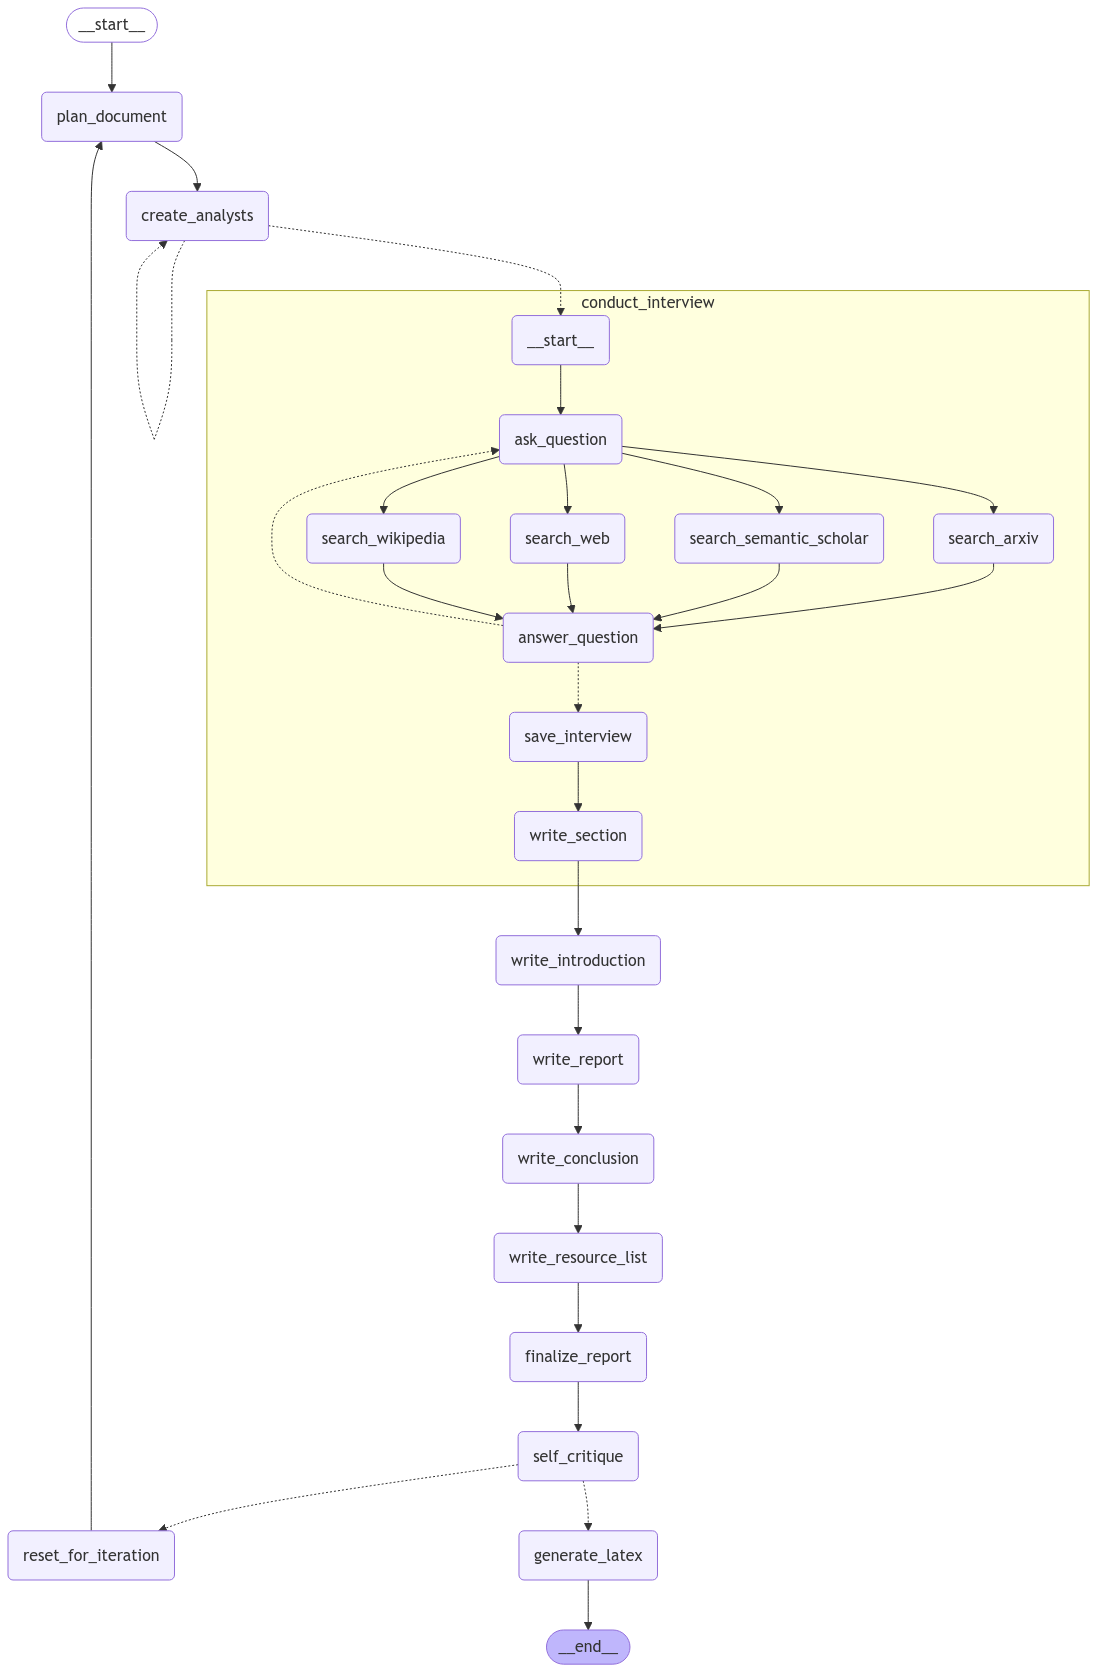
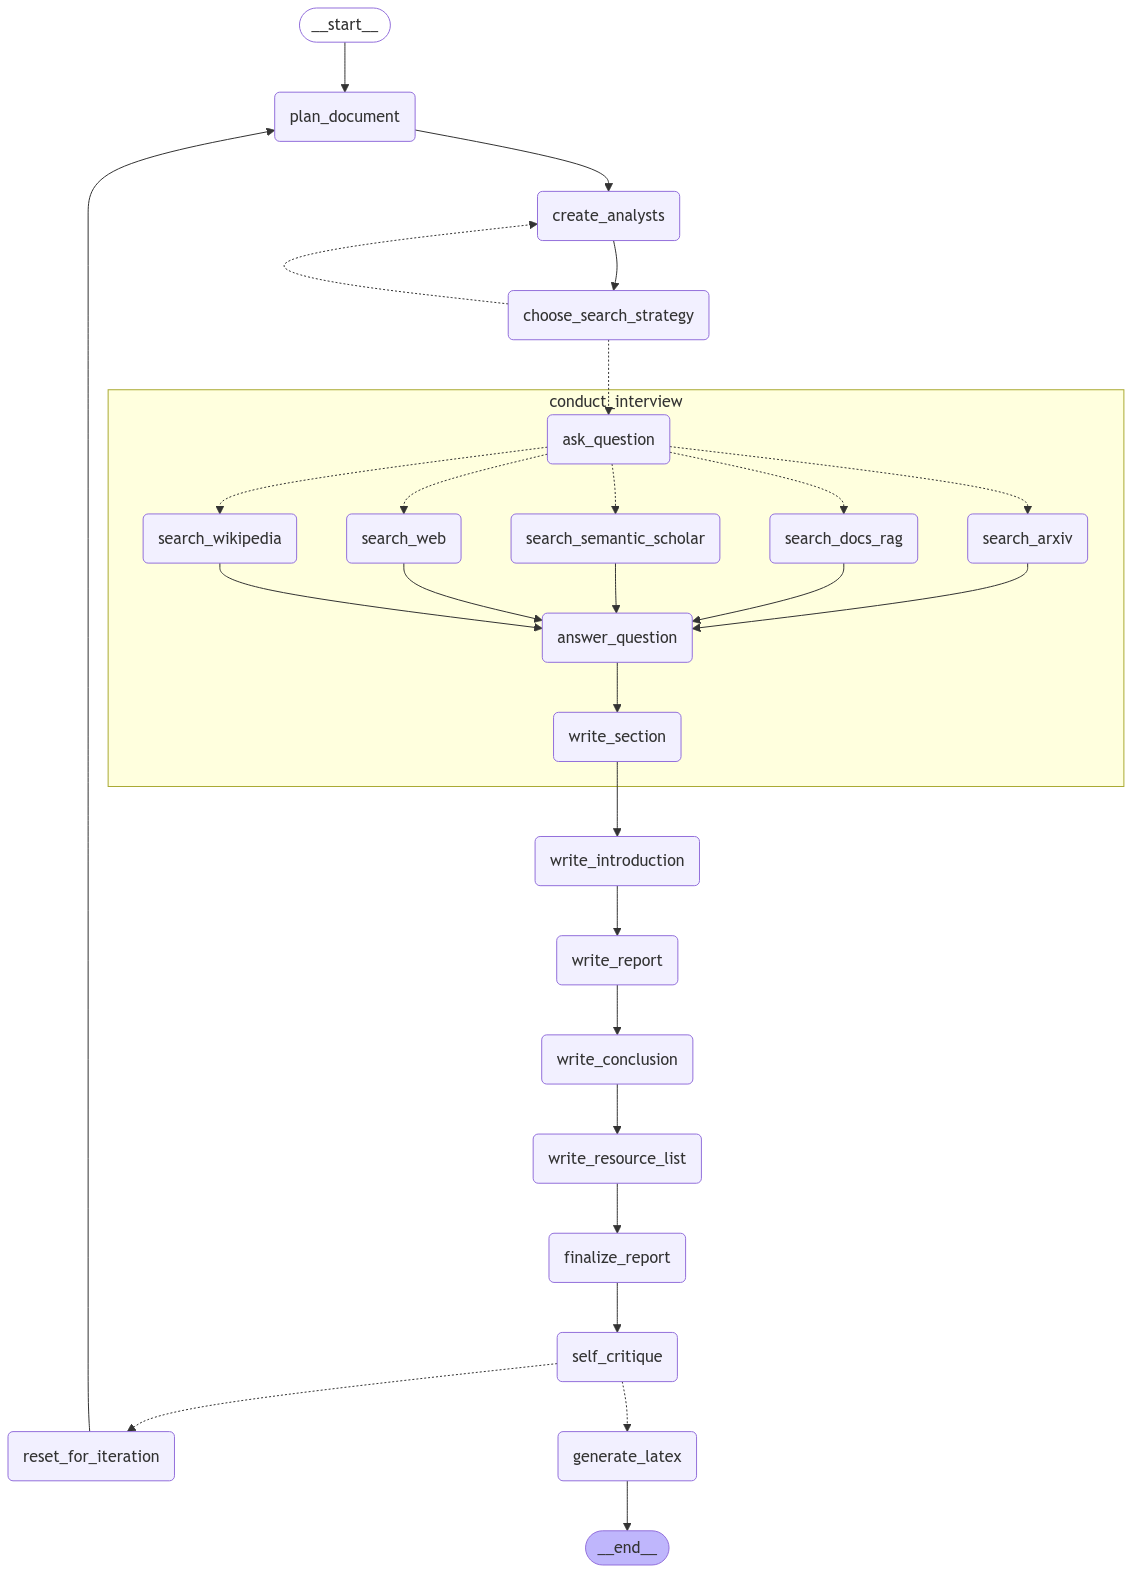
Fix RAG integration. Reorganize the graph to be more dynamic from searching strategy methodology (offline, online, both)

Changed region(s): [[0.0, 0.0935, 1.0, 0.9968], [0.217, 0.0, 0.3719, 0.0935], [0.031, 0.0, 0.155, 0.0935]]

diff --git a/demo.py b/demo.py
@@ -33,7 +33,7 @@ import json
 import re
 from json import JSONDecoder
 
-from utils.llm_utils import HumanLLMMonitor, smart_print
+from utils.llm_utils import HumanLLMMonitor, smart_print, smart_input
 from utils.file_utils import save_to_pickle, load_from_pickle
 from config import embedding_function, reset_db_indices, MODELS_CONFIG_LIST
 
@@ -309,11 +309,11 @@ def should_continue(state: GenerateAnalystsState):
 ### -------------------------------
 
 class InterviewState(MessagesState):
-    max_num_turns: int  # Number of conversation turns
-    context: Annotated[list, operator.add]  # Source docs
-    analyst: Analyst  # Analyst persona
-    interview: str  # Interview transcript
-    sections: list  # Collected sections for the report
+    max_num_turns: int                              # Number of conversation turns
+    context: Annotated[list, operator.add]          # Source docs
+    analyst: Analyst                                # Analyst persona
+    interview: str                                  # Interview transcript
+    sections: list                                  # Collected sections for the report
 
 class SearchQuery(BaseModel):
     search_query: str = Field(None, description="Search query for retrieval.")
@@ -531,6 +531,28 @@ def search_wikipedia(state: InterviewState):
     smart_print(message=formatted_search_docs, agent_name="Search Wikipedia", message_type="NEW inference result recieved", column_id=0, column_max=1)
     return {"context": [formatted_search_docs]}
 
+@load_from_pickle
+@save_to_pickle
+def search_docs_rag_get(search_query):
+    search_docs = HumanLLMMonitor.get_rag_documents("type", query=search_query.search_query)
+    formatted_search_docs = "\n\n---\n\n".join([
+        '<Document "' + doc["rag_knowledge"] + '"'
+        for doc in search_docs[0]
+    ])
+    return formatted_search_docs
+
+def search_docs_rag(state: InterviewState):
+    print("Search_docs_rag")
+    if "search_instructions" not in state:
+        state["search_instructions"] = SystemMessage(content=(
+            "You are an analyst tasked with generating a search query for the RAG retrieval model. "
+            "Analyze the conversation between the analyst and the expert and convert the final question into a search query."
+        ))
+    search_query = search_llm_query(state["search_instructions"], state["messages"])
+    formatted_search_docs = search_docs_rag_get(search_query)
+    smart_print(message=formatted_search_docs, agent_name="Search Docs RAG", message_type="NEW inference result recieved", column_id=0, column_max=1)
+    return {"context": [formatted_search_docs]}
+
 def generate_answer(state: InterviewState):
     print("Generate_answer")
     if "answer_instructions" not in state:
@@ -608,22 +630,26 @@ def write_section(state: InterviewState):
 # RESEARCH REPORT NODES (INCLUDING PLAN, RESOURCE LIST, AND SELF-CRITIQUE)
 ### -------------------------------
 
+class SearchStrategy:
+    def register_nodes(self, graph_builder: StateGraph):
+        raise NotImplementedError("Subclasses must implement register_nodes")
+
 # Extend state to include new keys for iterative improvement.
 class ResearchGraphState(TypedDict):
-    topic: str                      # Research topic
-    max_analysts: int               # Number of analysts
-    human_analyst_feedback: str     # Human feedback
-    analysts: List[Analyst]         # List of analysts
-    sections: Annotated[list, operator.add]  # Collected sections from interviews
-    plan: str                       # Overall plan for the document
-    introduction: str               # Introduction text
-    content: str                    # Main report content (without a conclusion)
-    conclusion: str                 # Conclusion text
-    resource_list: str              # Consolidated resource list (citations)
-    final_report: str               # The final combined report
-    iteration: int                  # Current iteration count
-    max_iterations: int             # Maximum allowed iterations
-    latex_report: str               # The final report in latex
+    topic: str                                          # Research topic
+    max_analysts: int                                   # Number of analysts
+    human_analyst_feedback: str                         # Human feedback
+    analysts: List[Analyst]                             # List of analysts
+    sections: Annotated[list, operator.add]             # Collected sections from interviews
+    plan: str                                           # Overall plan for the document
+    introduction: str                                   # Introduction text
+    content: str                                        # Main report content (without a conclusion)
+    conclusion: str                                     # Conclusion text
+    resource_list: str                                  # Consolidated resource list (citations)
+    final_report: str                                   # The final combined report
+    iteration: int                                      # Current iteration count
+    max_iterations: int                                 # Maximum allowed iterations
+    latex_report: str                                   # The final report in latex
 
 def plan_document(state: ResearchGraphState):
     """Plan Agent: Create a detailed plan for the research document."""
@@ -974,20 +1000,106 @@ def generate_latex(state : ResearchGraphState):
     print(f"latex generated : {latex_report_text}")
     return {'latex_report': latex_report_text}
 
+SEARCH_STRATEGY = None
+
+def choose_search_strategy(state: ResearchGraphState):
+    """
+    A runtime decision node that selects the search strategy.
+    In a real interactive environment, this could prompt the user.
+    For this example, we simulate the choice.
+    """
+    global SEARCH_STRATEGY
+    SEARCH_STRATEGY = smart_input("What searching strategy do you want to use? (Online, Offline, Both): ", column_id=0, column_max=1, optional=False).lower()
+    
+    # Validate the choice and default to "both" if unrecognized.
+    SEARCH_STRATEGY = "both" if SEARCH_STRATEGY not in ["online", "offline", "both"] else SEARCH_STRATEGY
+    
+    # Store the choice as a string to ensure serializability.
+    print(f"Search strategy chosen: {SEARCH_STRATEGY}")
+    return state
+
+def route_to_search_nodes(state: InterviewState):
+    """
+    Based on state['search_strategy'], decide which search nodes to enable.
+    Return a list of node names to which 'ask_question' should connect.
+    """
+    global SEARCH_STRATEGY
+    targets = []
+    
+    if SEARCH_STRATEGY == "offline":
+        # Only offline search
+        targets = ["search_docs_rag"]
+    elif SEARCH_STRATEGY == "online":
+        # Only online
+        targets = ["search_web", "search_wikipedia", "search_arxiv", "search_semantic_scholar"]
+    else:
+        # "both" or unknown => all nodes
+        targets = ["search_docs_rag", "search_web", "search_wikipedia", "search_arxiv", "search_semantic_scholar"]
+    
+    return targets
+
+
+def build_full_subgraph() -> StateGraph:
+    """
+    Build the subgraph with all potential search nodes.
+    We'll disable or skip them at runtime based on search_strategy.
+    """
+    sg = StateGraph(InterviewState)
+    
+    # 1) Common nodes
+    sg.add_node("ask_question", generate_question)
+    sg.add_node("answer_question", generate_answer)
+    sg.add_node("write_section", write_section)
+    
+    # 2) All possible search nodes
+    sg.add_node("search_docs_rag", search_docs_rag)
+    sg.add_node("search_web", search_web)
+    sg.add_node("search_wikipedia", search_wikipedia)
+    sg.add_node("search_arxiv", search_arxiv)
+    sg.add_node("search_semantic_scholar", search_semantic_scholar)
+    
+    # 3) Connect edges via a small router function
+    sg.add_conditional_edges("ask_question", route_to_search_nodes, 
+        [
+          "search_docs_rag",
+          "search_web",
+          "search_wikipedia",
+          "search_arxiv",
+          "search_semantic_scholar",
+        ]
+    )
+    
+    # Next, from each search node to answer_question (some libraries require separate edges).
+    sg.add_edge("search_docs_rag", "answer_question")
+    sg.add_edge("search_web", "answer_question")
+    sg.add_edge("search_wikipedia", "answer_question")
+    sg.add_edge("search_arxiv", "answer_question")
+    sg.add_edge("search_semantic_scholar", "answer_question")
+    
+    # Then from answer_question -> write_section -> END
+    sg.add_edge("answer_question", "write_section")
+    sg.add_edge("write_section", END)
+    sg.add_edge(START, "ask_question")
+    
+    return sg
+
+def initiate_all_interviews(state: ResearchGraphState):
+    print("Initiate_all_interviews")
+    human_analyst_feedback = state.get('human_analyst_feedback')
+    if human_analyst_feedback:
+        return "create_analysts"
+    else:
+        topic = state["topic"]
+        return [
+            Send("conduct_interview", {
+                "analyst": analyst,
+                "messages": [HumanMessage(content=f"So you said you were writing an article on {topic}?")]
+            })
+            for analyst in state["analysts"]
+        ]
+
 def multi_agent_research_generation_persist_at_the_end(title, topic, max_analysts: int = 3, max_iterations: int = 2):
-    """
-    Generate a full research report using a multi-agent LangGraph workflow.
-    The workflow:
-      1. Begins with a plan agent, creates analysts, conducts interviews,
-         writes each section (introduction, main content, conclusion),
-         and generates a consolidated resource list.
-      2. Finalizes the report.
-      3. Then, critiques the current report and updates the plan.
-      4. If the number of iterations is less than max_iterations, it resets key state fields and loops back to re-run the process.
-      5. When max_iterations is reached, the final improved report is output.
-    """
     print("Multi_agent_research_generation_persist_at_the_end")
-    # Initialize state with new iterative fields.
     initial_state: ResearchGraphState = {
         "topic": topic,
         "max_analysts": max_analysts,
@@ -1001,103 +1113,49 @@ def multi_agent_research_generation_persist_at_the_end(title, topic, max_analyst
         "resource_list": "",
         "final_report": "",
         "iteration": 0,
-        "max_iterations": max_iterations
+        "max_iterations": max_iterations,
+        "search_strategy": None,
+        "latex_report": "",
+        "compiled_interview_graph": None  # New field initialized.
     }
-
-    # Build the interview sub-graph (unchanged)
-    interview_builder = StateGraph(InterviewState)
-    # TODO: Move out the Ask Question (make it generate 10 questions for each analysts before going in interview) and Write Section nodes to main graph so we can still parallelize the interviews and also use HumanLLMMonitor for
-    # these 2 nodes. 
-    interview_builder.add_node("ask_question", generate_question)
-    interview_builder.add_node("search_web", search_web)
-    interview_builder.add_node("search_wikipedia", search_wikipedia)
-    interview_builder.add_node("search_arxiv", search_arxiv)
-    interview_builder.add_node("search_semantic_scholar", search_semantic_scholar)
-    interview_builder.add_node("answer_question", generate_answer)
-    interview_builder.add_node("save_interview", save_interview)
-    interview_builder.add_node("write_section", write_section)
-    interview_builder.add_edge(START, "ask_question")
-    interview_builder.add_edge("ask_question", "search_web")
-    interview_builder.add_edge("ask_question", "search_wikipedia")
-    interview_builder.add_edge("ask_question", "search_arxiv")
-    interview_builder.add_edge("ask_question", "search_semantic_scholar")
-    interview_builder.add_edge("search_web", "answer_question")
-    interview_builder.add_edge("search_wikipedia", "answer_question")
-    interview_builder.add_edge("search_arxiv", "answer_question")
-    interview_builder.add_edge("search_semantic_scholar", "answer_question")
-    interview_builder.add_conditional_edges("answer_question", route_messages, ['ask_question', 'save_interview'])
-    interview_builder.add_edge("save_interview", "write_section")
-    interview_builder.add_edge("write_section", END)
-    memory = MemorySaver()
-    interview_graph = interview_builder.compile(checkpointer=memory).with_config(run_name="Conduct Interviews")
     params = {"configurable": {"thread_id": "1"}, "recursion_limit": 100}
 
-    # Build the main research graph with iterative self-critique.
     builder = StateGraph(ResearchGraphState)
     builder.add_node("plan_document", plan_document)
     builder.add_node("create_analysts", create_analysts)
-    # builder.add_node("human_feedback", human_feedback)
-    builder.add_node("conduct_interview", interview_graph)
-    builder.add_node("write_report", write_report)
+    builder.add_node("choose_search_strategy", choose_search_strategy)    
+    
+    # Continue with the rest of the main graph nodes.
     builder.add_node("write_introduction", write_introduction)
+    builder.add_node("write_report", write_report)
     builder.add_node("write_conclusion", write_conclusion)
     builder.add_node("write_resource_list", write_resource_list)
     builder.add_node("finalize_report", finalize_report)
     builder.add_node("self_critique", self_critique)
     builder.add_node("reset_for_iteration", reset_for_iteration)
     builder.add_node("generate_latex", generate_latex)
-    # Define conditional edge based on iteration count.
-    builder.add_conditional_edges("self_critique", should_iterate, ["reset_for_iteration", "generate_latex"])
-    # Add the final latex generation node.
-    builder.add_edge("generate_latex", END)
-    builder.add_edge("reset_for_iteration", "plan_document")
 
-    # Graph flow:
-    # START -> plan_document -> create_analysts -> human_feedback -> (initiate interviews) ->
-    # write_introduction, write_report, write_conclusion -> write_resource_list -> finalize_report -> self_critique ->
-    # [if iteration < max_iterations -> reset_for_iteration -> plan_document] else END.
-    builder.add_edge(START, "plan_document")
+    interview_graph = build_full_subgraph().compile()
+    builder.add_node("conduct_interview", interview_graph)
+    
     builder.add_edge("plan_document", "create_analysts")
-    # builder.add_edge("create_analysts", "human_feedback")
-    # Use a conditional edge from human_feedback to either re-run analyst creation or start interviews.
-    def initiate_all_interviews(state: ResearchGraphState):
-      print("Initiate_all_interviews")
-      human_analyst_feedback = state.get('human_analyst_feedback')
-      if human_analyst_feedback:
-          return "create_analysts"
-      else:
-          topic = state["topic"]
-          return [Send("conduct_interview", {"analyst": analyst,
-                                             "messages": [HumanMessage(content=f"So you said you were writing an article on {topic}?")]})
-                  for analyst in state["analysts"]]
-    # builder.add_conditional_edges("human_feedback", initiate_all_interviews, ["create_analysts", "conduct_interview"])
-    builder.add_conditional_edges("create_analysts",initiate_all_interviews, ["create_analysts", "conduct_interview"])
-    # Modify to sequential edge after interviews to avoid infinite loop when using HumnaLLMMonitor as llm.
+    builder.add_edge("create_analysts", "choose_search_strategy")
+    builder.add_conditional_edges("choose_search_strategy", initiate_all_interviews, ["create_analysts", "conduct_interview"])
     builder.add_edge("conduct_interview", "write_introduction")
+
     builder.add_edge("write_introduction", "write_report")
     builder.add_edge("write_report", "write_conclusion")
     builder.add_edge("write_conclusion", "write_resource_list")
     builder.add_edge("write_resource_list", "finalize_report")
     builder.add_edge("finalize_report", "self_critique")
-    # The conditional edge from self_critique will either loop back via reset_for_iteration or end.
+    builder.add_conditional_edges("self_critique", should_iterate, ["reset_for_iteration", "generate_latex"])
+    builder.add_edge("reset_for_iteration", "plan_document")
+    builder.add_edge("generate_latex", END)
+    builder.add_edge(START, "plan_document")
+    
     memory2 = MemorySaver()
     graph = builder.compile(checkpointer=memory2)
-    # Optionally, visualize the graph:
-    # Image(graph.get_graph(xray=1).draw_mermaid_png())
-    # with open("images/graph_png.png", "wb") as f:
-    #     f.write(graph.get_graph(xray=1).draw_mermaid_png())
-
-    print("Save files in db")
     
-    # Take every files in 'BIBLIO-TEST' folder and push it in the database
-    bib_files = [f for f in os.listdir("BIBLIO-TEST") if os.path.isfile(os.path.join("BIBLIO-TEST", f))]
-    for file in bib_files:
-        print(file)
-        if not (file == '.DS_Store'):
-            HumanLLMMonitor.add_rag_document(file, folder_path="BIBLIO-TEST")
-
-    print("Starting the graph")
-
     graph.invoke(initial_state, params)
     final_state = graph.get_state(params)
     report = final_state.values.get('final_report')
@@ -1111,14 +1169,16 @@ def multi_agent_research_generation_persist_at_the_end(title, topic, max_analyst
     if bibtex_report:
         with open(f"{report_folder}/{topic}.bib", "w") as f:
             f.write(bibtex_report)
+    with open("images/graph_png.png", "wb") as f:
+        f.write(graph.get_graph(xray=1).draw_mermaid_png())
     return report
 
 # Invoke the multi-agent iterative workflow:
 report = multi_agent_research_generation_persist_at_the_end(
     title="State of the art on Leading Edge Noise",
     topic = "Research assistant framework for State of the art on Leading Edge Noise",
-    max_analysts=5,
-    max_iterations=1  # Default number of iterations is 2.
+    max_analysts=3,
+    max_iterations=5  # Default number of iterations is 2.
 )
 
 print(report)

diff --git a/utils/llm_utils.py b/utils/llm_utils.py
@@ -720,7 +720,7 @@ class HumanLLMMonitor:
         return cls.user_id
     
     @classmethod
-    def get_rag_documents(cls, agent_name=None, extra_filter: Optional[Dict[str, Any]] = None, **kwargs):
+    def get_rag_documents(cls, agent_name=None, extra_filter: Optional[Dict[str, Any]] = None, query: str = '*', **kwargs):
         """
         Convenience method to retrieve only RAG-indexed documents.
         It wraps get_agent_data by enforcing metadata_filter with {"rag": True}.
@@ -728,7 +728,7 @@ class HumanLLMMonitor:
         metadata_filter = {"rag": True}
         if extra_filter:
             metadata_filter.update(extra_filter)
-        return cls.get_agent_data(agent_name=agent_name, metadata_filter=metadata_filter, **kwargs)
+        return cls.get_agent_data(agent_name=agent_name, metadata_filter=metadata_filter, query_text=query, **kwargs)
 
     @classmethod
     def add_rag_document(cls, file_path: str, metadata: Optional[Dict[str, Any]] = None,
@@ -849,7 +849,7 @@ class HumanLLMMonitor:
     @classmethod
     def get_agent_data(cls, agent_name=None, data_key=None, id_task=None, function_name=None, before_after=None, user_id=None,
                        step_id=None, type_tache=None, score=None,
-                       metadata_filter=None, sort_order=None, k=5, start_index=0, end_index=None):
+                       metadata_filter=None, sort_order=None, k=5, start_index=0, end_index=None, query_text='*'):
         """Retrieves agent-specific data based on the agent name, data key, and additional metadata.
         Supports pagination by specifying start and end indices.
         """
@@ -878,7 +878,7 @@ class HumanLLMMonitor:
         # Fetch results with a large 'k' to ensure we have enough data
         max_k = end_index if end_index is not None else k
         results = cls.common_vectordb.query(
-            query_text='*', metadata_filter=metadata, sort_order=sort_order, k=max_k)
+            query_text=query_text, metadata_filter=metadata, sort_order=sort_order, k=max_k)
 
         # Apply pagination
         paginated_results = results[start_index:end_index] if end_index is not None else results[start_index:]
